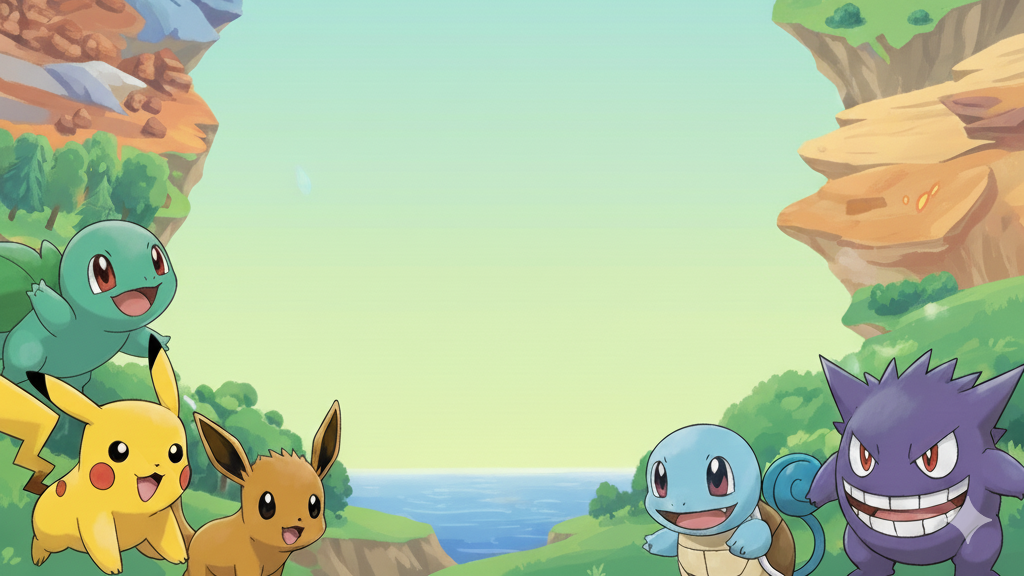
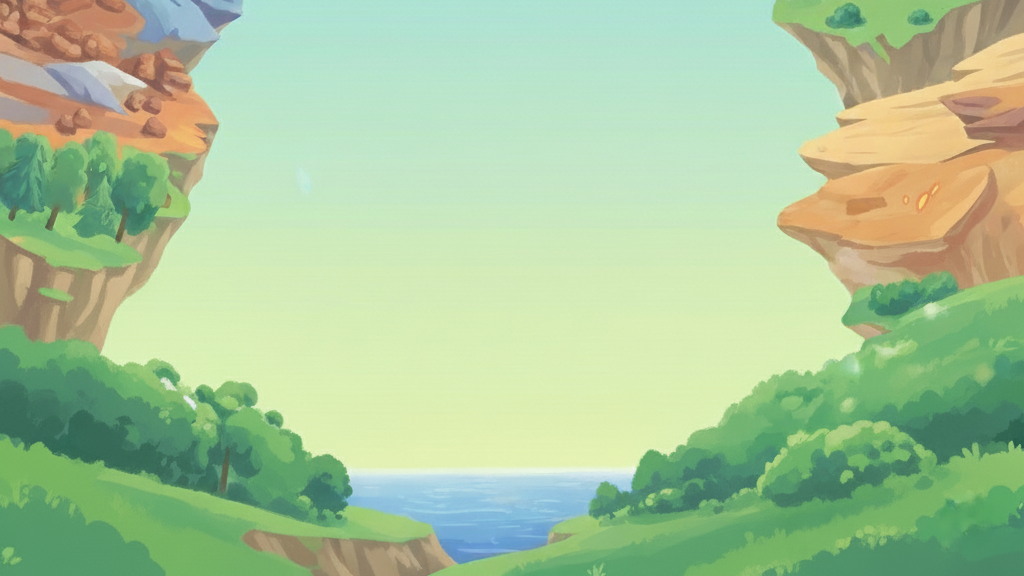
feat: Agrega Pokémon animados al hero de la página de inicio

Changed region(s): [[0.0, 0.375, 0.3438, 1.0], [0.625, 0.5938, 1.0, 1.0]]

diff --git a/src/pages/HomePage.jsx b/src/pages/HomePage.jsx
@@ -1,41 +1,112 @@
 // src/pages/HomePage.jsx
-import React from 'react';
-import { Link } from 'react-router-dom';
-import { motion } from 'framer-motion';
+import React from "react";
+import { Link } from "react-router-dom";
+import { motion } from "framer-motion";
+
+// 1. Importamos las imágenes de los Pokémon
+import pikachu from "../assets/images/pokemon/pikachu.png";
+import bulbasaur from "../assets/images/pokemon/bulbasaur.png";
+import charizard from "../assets/images/pokemon/charizard.png";
+import eevee from "../assets/images/pokemon/Eevee.png";
+import geodude from "../assets/images/pokemon/geodude.png";
+import mewto from "../assets/images/pokemon/mewto.png";
 
 const HomePage = () => {
   return (
-    <div className="flex flex-col items-center justify-center min-h-screen bg-cover bg-center bg-home-bg p-4">
-      <motion.h1
-        initial={{ y: -50, opacity: 0 }}
-        animate={{ y: 0, opacity: 1 }}
-        transition={{ duration: 0.5 }}
-        className="text-5xl md:text-6xl font-pokemon text-pokemon-yellow mb-4 text-center"
-        style={{ textShadow: '3px 3px 6px rgba(0,0,0,0.7)' }}
-      >
-        Bienvenido al Mundo Pokémon
-      </motion.h1>
-      <motion.p
-        initial={{ y: -30, opacity: 0 }}
-        animate={{ y: 0, opacity: 1 }}
-        transition={{ duration: 0.5, delay: 0.2 }}
-        className="text-xl text-white mb-8 text-center"
-        style={{ textShadow: '2px 2px 4px rgba(0,0,0,0.7)' }}
-      >
-        Tu aventura en la Pokédex comienza aquí.
-      </motion.p>
-      <motion.div
-        initial={{ scale: 0 }}
-        animate={{ scale: 1 }}
-        transition={{ type: 'spring', stiffness: 260, damping: 20, delay: 0.4 }}
-      >
-        <Link
-          to="/pokedex"
-          className="bg-pokemon-red text-white font-bold rounded-full shadow-poke px-8 py-4 hover:shadow-glow-electric hover:scale-105 transition-all duration-300 transform"
+    // 2. Añadimos 'relative' para posicionar las imágenes y 'overflow-x-hidden' para ocultar la animación inicial
+    <div className="relative flex flex-col items-center justify-center min-h-screen bg-cover bg-center bg-home-bg p-4 overflow-x-hidden">
+      
+      {/* --- Imágenes de la Izquierda --- */}
+      <motion.img
+        src={pikachu}
+        alt="Pikachu"
+        className="absolute bottom-4 -left-20 md:-left-24 w-64 h-64 md:w-60 md:h-60 z-0"
+        initial={{ x: "-100%", opacity: 0 }}
+        animate={{ x: 0, opacity: 1 }}
+        transition={{ type: "spring", stiffness: 40, delay: 0.8 }}
+      />
+      <motion.img
+        src={bulbasaur}
+        alt="Bulbasaur"
+        className="absolute top-1/3 -left-16 md:-left-20 w-48 h-48 md:w-52 md:h-52 z-0"
+        initial={{ x: "-100%", opacity: 0 }}
+        animate={{ x: 0, opacity: 1 }}
+        transition={{ type: "spring", stiffness: 40, delay: 0.6 }}
+      />
+      <motion.img
+        src={geodude}
+        alt="Geodude"
+        className="absolute top-8 -left-12 md:-left-16 w-40 h-40 md:w-48 md:h-48 z-0"
+        initial={{ x: "-100%", opacity: 0 }}
+        animate={{ x: 0, opacity: 1 }}
+        transition={{ type: "spring", stiffness: 40, delay: 0.4 }}
+      />
+
+      {/* --- Imágenes de la Derecha --- */}
+      <motion.img
+        src={charizard}
+        alt="Charizard"
+        className="absolute top-4 -right-24 md:-right-32 w-72 h-72 md:w-60 md:h-60 scale-x-[-1] z-0"
+        initial={{ x: "100%", opacity: 0 }}
+        animate={{ x: 0, opacity: 1 }}
+        transition={{ type: "spring", stiffness: 40, delay: 0.4 }}
+      />
+      <motion.img
+        src={eevee}
+        alt="Eevee"
+        className="absolute top-1/3 -right-16 md:-right-20 w-48 h-48 md:w-52 md:h-52 scale-x-[-1] z-0"
+        initial={{ x: "100%", opacity: 0 }}
+        animate={{ x: 0, opacity: 1 }}
+        transition={{ type: "spring", stiffness: 40, delay: 0.6 }}
+      />
+      <motion.img
+        src={mewto}
+        alt="Mewto"
+        className="absolute bottom-8 -right-20 md:-right-24 w-64 h-64 md:w-48 md:h-48 scale-x-[-1] z-0"
+        initial={{ x: "100%", opacity: 0 }}
+        animate={{ x: 0, opacity: 1 }}
+        transition={{ type: "spring", stiffness: 40, delay: 0.8 }}
+      />
+
+      {/* 3. Contenido Central (con z-index para que esté por encima) */}
+      <div className="relative z-10 flex flex-col items-center justify-center text-center">
+        <motion.h1
+          initial={{ y: -50, opacity: 0 }}
+          animate={{ y: 0, opacity: 1 }}
+          transition={{ duration: 0.5, delay: 1 }}
+          className="text-5xl md:text-6xl font-pokemon text-pokemon-yellow mb-4"
+          style={{
+            textShadow: `
+              -2px -2px 0 #2A75BB, 2px -2px 0 #2A75BB,
+              -2px 2px 0 #2A75BB, 2px 2px 0 #2A75BB,
+              3px 3px 6px rgba(0,0,0,0.7)
+            `,
+          }}
         >
-          ¡Explora la Pokédex!
-        </Link>
-      </motion.div>
+          Bienvenido al Mundo Pokémon
+        </motion.h1>
+        <motion.p
+          initial={{ y: -30, opacity: 0 }}
+          animate={{ y: 0, opacity: 1 }}
+          transition={{ duration: 0.5, delay: 1.2 }}
+          className="text-xl text-pokemon-blue mb-8"
+          style={{ textShadow: "2px 2px 4px rgba(0,0,0,0.7)" }}
+        >
+          Tu aventura en la Pokédex comienza aquí.
+        </motion.p>
+        <motion.div
+          initial={{ scale: 0 }}
+          animate={{ scale: 1 }}
+          transition={{ type: "spring", stiffness: 260, damping: 20, delay: 1.4 }}
+        >
+          <Link
+            to="/pokedex"
+            className="bg-pokemon-blue text-white font-bold rounded-full shadow-poke px-8 py-4 hover:shadow-glow-electric hover:scale-105 transition-all duration-300 transform"
+          >
+            ¡Explora la Pokédex!
+          </Link>
+        </motion.div>
+      </div>
     </div>
   );
 };

diff --git a/src/components/common/Navbar.jsx b/src/components/common/Navbar.jsx
@@ -5,14 +5,19 @@ const Navbar = () => {
   return (
     <nav className="bg-pokemon-blue text-white shadow-lg">
       <div className="container mx-auto px-4 py-3 flex justify-between items-center">
-        <NavLink to="/" className="text-2xl font-bold hover:text-pokemon-yellow transition-colors" style={{ fontFamily: "'Press Start 2P', cursive" }}>
-          Pokédex
+        {/* 1. Texto cambiado a "Inicio" y fuente aplicada */}
+        <NavLink 
+          to="/" 
+          className="text-2xl font-pokemon hover:text-pokemon-yellow transition-colors"
+        >
+          Inicio
         </NavLink>
-        <div className="flex space-x-4">
+        <div className="flex space-x-6">
+          {/* 2. Fuente aplicada al otro enlace */}
           <NavLink
             to="/pokedex"
             className={({ isActive }) =>
-              `px-3 py-2 rounded-md text-lg font-medium transition-colors hover:text-pokemon-yellow ${isActive ? 'text-pokemon-yellow' : 'text-gray-300'}`
+              `text-xl font-pokemon transition-colors hover:text-pokemon-yellow ${isActive ? 'text-pokemon-yellow' : 'text-gray-300'}`
             }
           >
             Pokédex

diff --git a/src/index.css b/src/index.css
@@ -1,14 +1,20 @@
 @import url('https://fonts.googleapis.com/css2?family=Press+Start+2P&display=swap');
 
-/* --- Añade esto --- */
 @font-face {
-  font-family: 'Pokemon Solid';
+  /* 👇 CAMBIA ESTA LÍNEA 👇 */
+  font-family: 'PokemonSolid'; 
   src: url('./assets/fonts/Pokemon_Solid.ttf') format('truetype');
-  /* Asegúrate de que la ruta y el nombre del archivo sean correctos */
   font-weight: normal;
   font-style: normal;
 }
-/* ------------------- */
+
+@font-face {
+
+  font-family: 'PokemonHollow'; 
+  src: url('./assets/fonts/Pokemon_Hollow.ttf') format('truetype');
+  font-weight: normal;
+  font-style: normal;
+}
 
 @tailwind base;
 @tailwind components;

diff --git a/tailwind.config.js b/tailwind.config.js
@@ -30,7 +30,8 @@ export default {
       fontFamily: {
         'sans': ['Segoe UI', 'Roboto', 'Helvetica', 'Noto Sans', 'sans-serif'],
         'display': ['"Press Start 2P"', 'cursive'],
-        'pokemon': ['"Pokemon_Solid"', 'sans-serif'],
+        'pokemon': ['PokemonSolid', 'sans-serif'], 
+        'pokemonHollow': ['PokemonHollow', 'sans-serif'], 
       },
       boxShadow: {
         'poke': '0 6px 16px rgba(0,0,0,0.15)',
